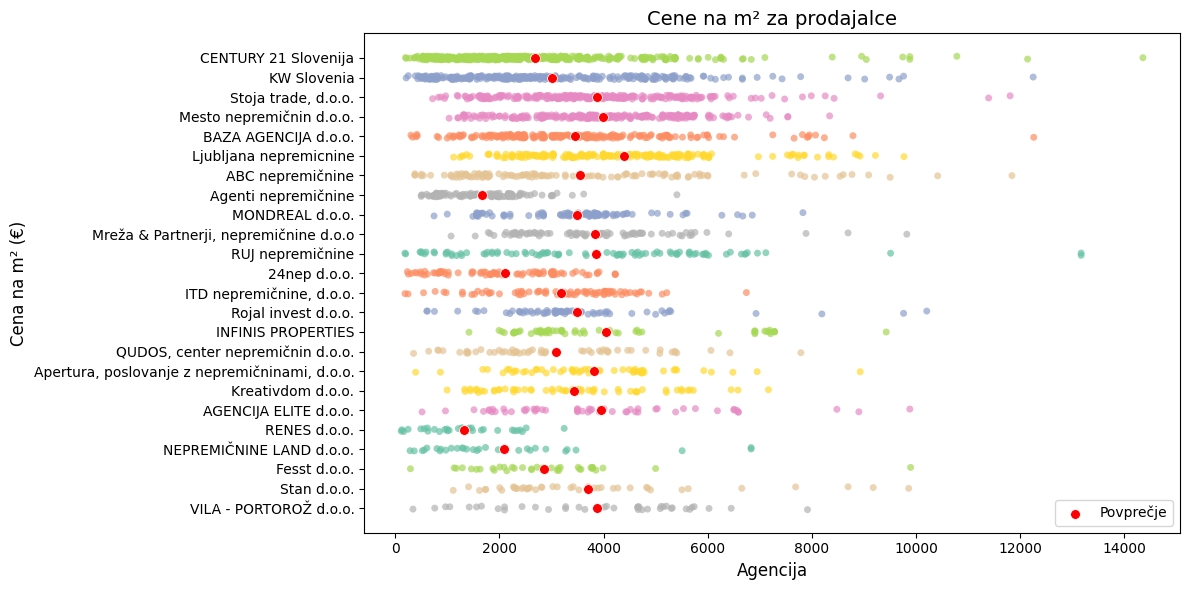
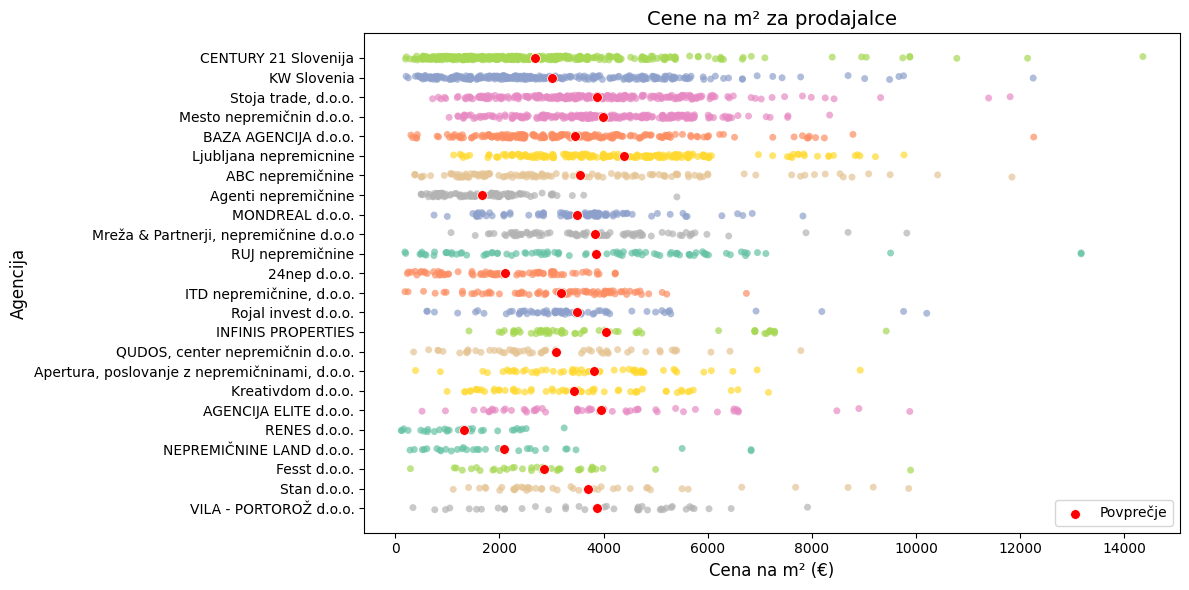
fixed prodajalci graf

diff --git a/VMESNO.md b/VMESNO.md
@@ -18,7 +18,7 @@ Podatke smo zbrali v `csv` datotekah.
 
 Za branj podatkov v Pythonu smo uporabili `pandas` knjižnico, grafe pa smo risali z `matplotlib` in `seaborn`. Za risanje podatkov na zemljevidu smo uporabili `cartopy` knjižnico.
 
-### Risanje cen
+### Splošni pogled na cene
 
 Za začetek smo pogledali kako se cene odražajo na zemljevidu.
 
@@ -44,13 +44,13 @@ B_fit = [beta.pdf(x, *pars_b) for x in xb]
 
 Pri `nepremicnine.net` ni podane enote za ceno, ampak večina jih navaja ceno za celo nepremičnino. Da ignoriramo vrednosti, ki očitno niso pravilne, smo se omejili med 50.000 in 100.000.000 EUR.
 
-### Risanje starosti
+### Starost nepremičnin
 
 Nadaljevali smo s histogramom leta gradnje. Pri tem smo ugotovili, da je izmed vseh oglasov okoli 22% novogradenj, nepremičnine, zgrajene pred letom 2023 pa so približno enakomerno porazdeljene.
 
 <img src="slike/histogram_starosti.png" width=600/>
 
-### Risanje ponudnikov
+### Nepremičninske agencije
 
 Pogledali smo, kolikšen delež nepremičninskega trga zaseda posamezna agencija in katera ima najboljše ponudbe v povprečju.
 
@@ -60,7 +60,7 @@ Pogledali smo, kolikšen delež nepremičninskega trga zaseda posamezna agencija
 
 Vidimo, da največji delež zaseda CENTURY 21 agencija, ogromno pa je majhnih agencij, ki spadajo pod "ostalo". Povprečna cena je največja pri agenciji Ljubljana nepremičnine, najcenejša pa pri RENES d.o.o., ki se ukvarja večino s prodajo zanemarjenih hiš.
 
-### Povezava med starostjo in ceno
+### Povezava starosti z izbranimi atributi
 
 Da smo preverili, ali starost gradnje vpliva na ceno, smo narisali scatter plot in preverili Pearsonov koeficient.
 
@@ -97,12 +97,12 @@ V Obalno-kraški ločitve najverjetneje nimajo vpliva na število nepremičnin, 
 
 ### Čas za adaptacijo nepremičnin
 
-<img src="slike/prenovitve.png" width=900/>
+<img src="slike/prenovitve.png" width=600/>
 
 Vidimo, da je večina nepremičnin bila obnovljena v ~100 do 200 letih izgradnje, vendar se pa število zmanjša pri okoli ~500 letih. To so večinoma "rustične nepremičnine" v naravi, gradovi ...
 
 ### Vikendi
 
-<img src="slike/vikendi.png" width=800/>
+<img src="slike/vikendi.png" width=400/>
 
 Italija je za vikende najdražja, ima pa le okoli 40 nepremičnin naprodaj. Hrvaška jih ima več, okoli 400. Avstrija je najcenejša, ampak je podatek iz le ene nepremičnine. Ostale države po Evropi večinoma nimajo nič naprodaj, ali pa so v isti situaciji kot Avstrija.
